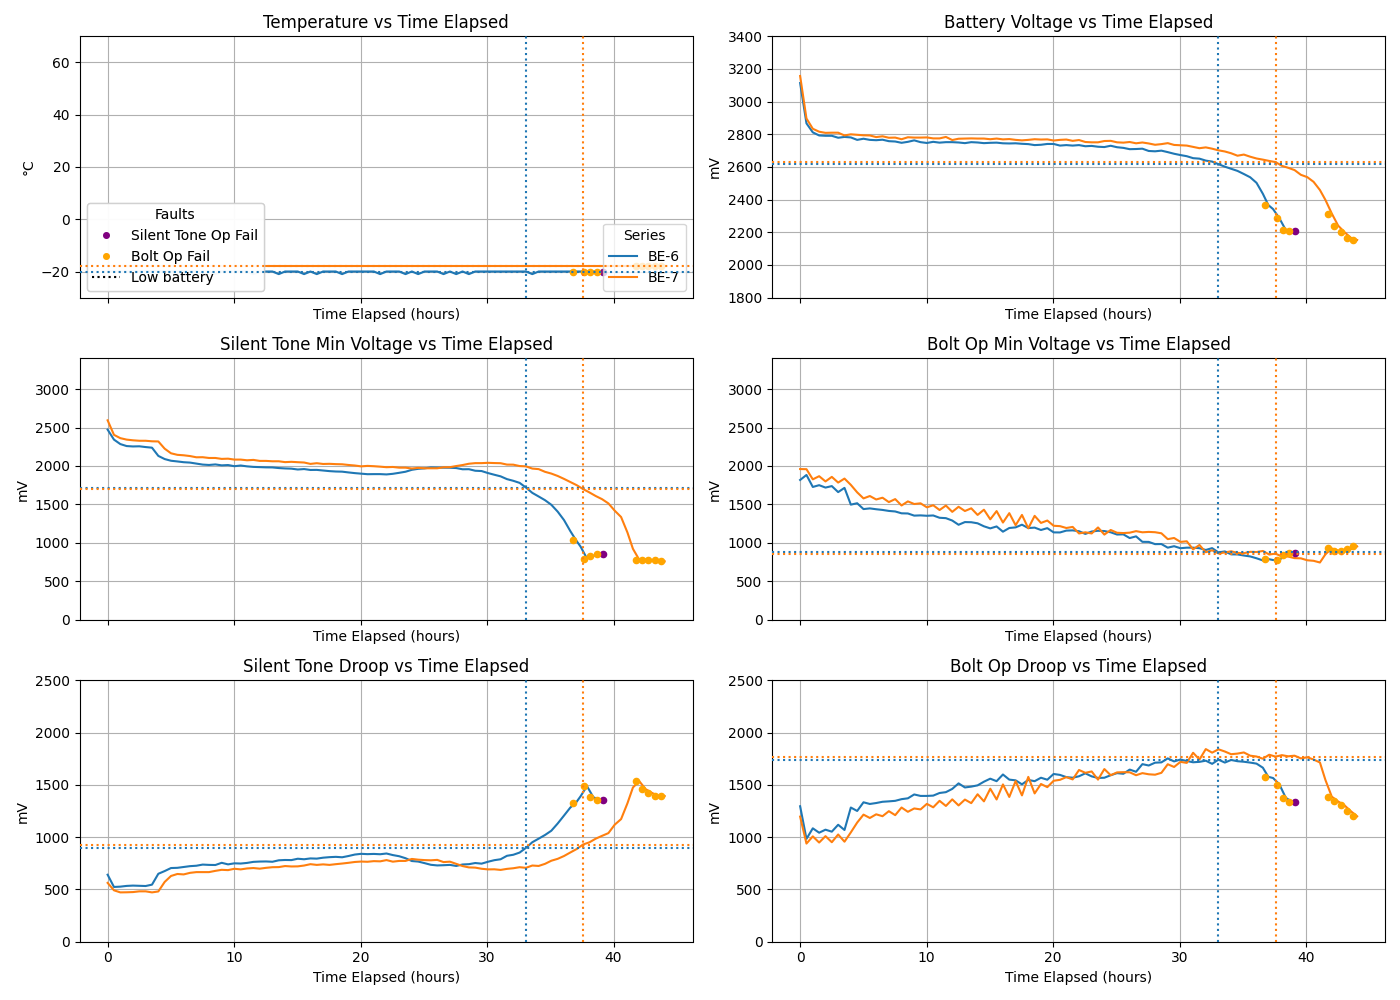
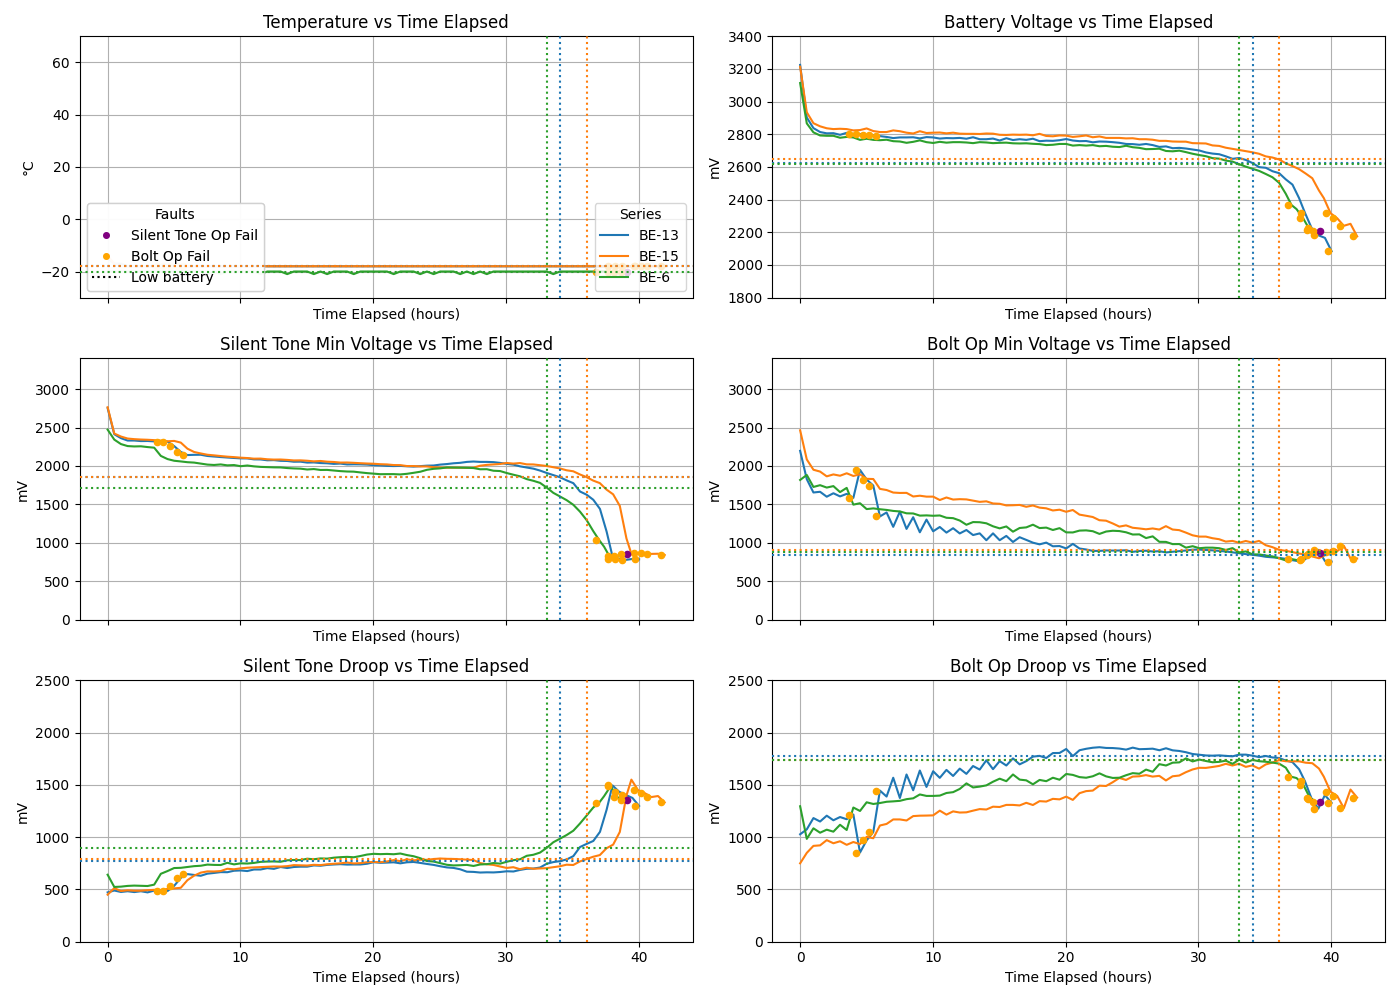
tenergy m20c

diff --git a/plot_folder.py b/plot_folder.py
@@ -6,7 +6,7 @@ import numpy as np  # NEW
 from matplotlib.lines import Line2D
 
 # CONFIGURATION
-CSV_DIR = "csvs/manufacturers-cross-temp/temp-m20c/amazon"
+CSV_DIR = "csvs/manufacturers-cross-temp/temp-m20c/tenergy"
 CSV_TAG = os.path.basename(os.path.normpath(CSV_DIR))
 PLOT_OUTPUT = f"plots/compare_all_{CSV_DIR.replace("/", "-")}.png"
 COMPUTE_LOW_BATT_BY_ALL_FAULTS=True
